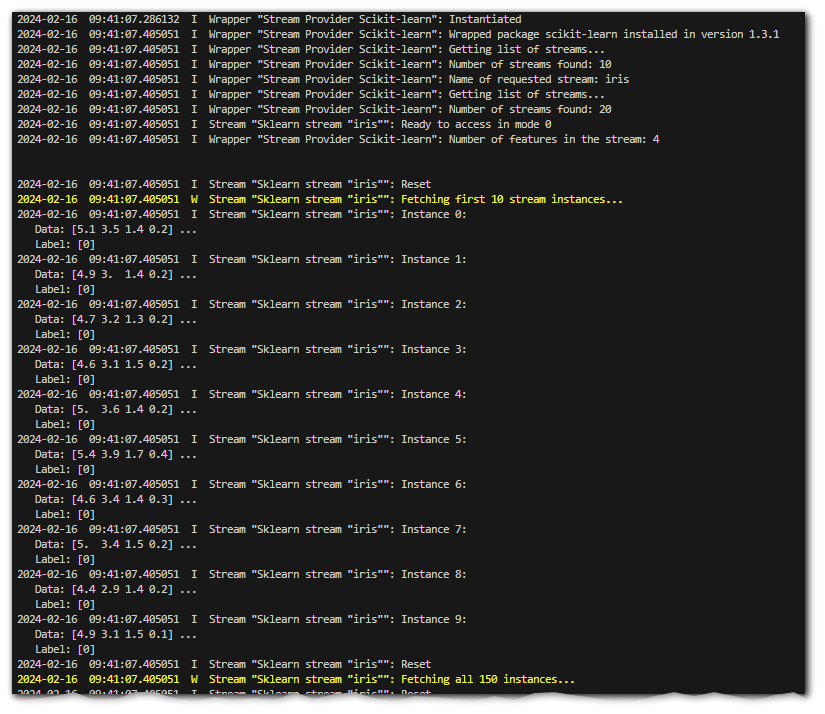
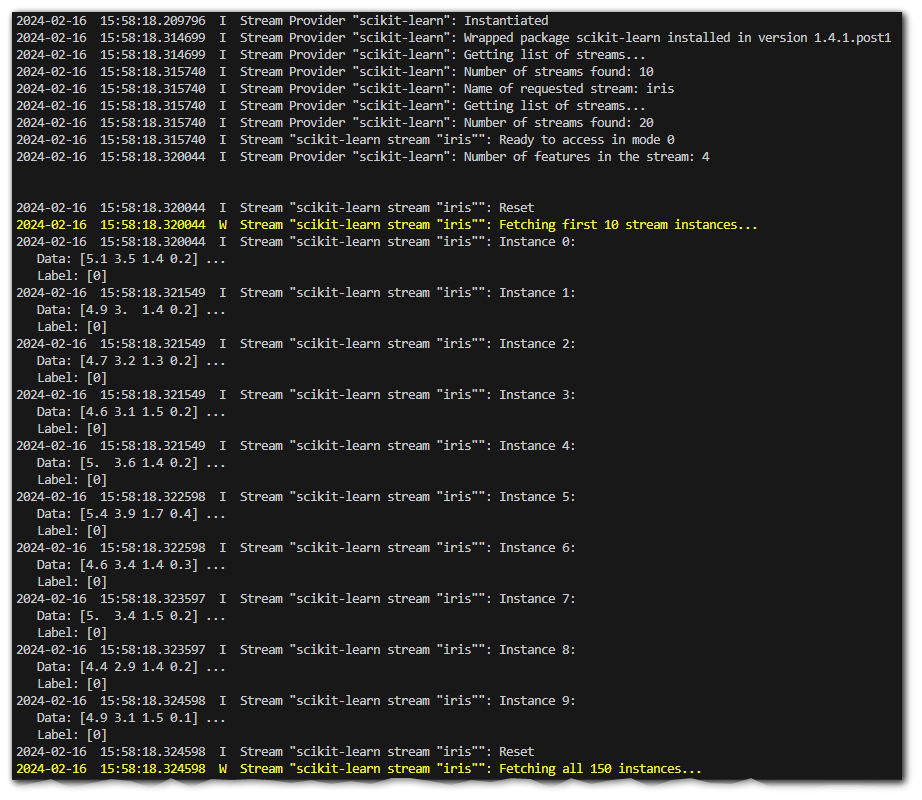
Initial setup #1

Changed region(s): [[0.0, 0.0, 1.0, 0.986]]

diff --git a/src/mlpro_int_sklearn/wrappers/streams.py b/src/mlpro_int_sklearn/wrappers/streams.py
@@ -30,10 +30,10 @@ https://scikit-learn.org
 """
 
 
-from mlpro_int_sklearn.wrappers import WrapperScikitlearn
+from mlpro_int_sklearn.wrappers import WrapperSklearn
 from mlpro.bf.streams import *
 from mlpro.bf.math import *
-from sklearn import datasets
+from sklearn import datasets as sklearn_datasets
 import numpy
 
 
@@ -41,12 +41,12 @@ import numpy
 
 ## -------------------------------------------------------------------------------------------------
 ## -------------------------------------------------------------------------------------------------
-class WrStreamProviderSklearn (WrapperScikitlearn, StreamProvider):
+class WrStreamProviderSklearn (WrapperSklearn, StreamProvider):
     """
     Wrapper class for Sklearn as StreamProvider.
     """
 
-    C_NAME              = 'Stream Provider Scikit-learn'
+    C_NAME              = 'scikit-learn'
 
     _load_utils = [
         "fetch_20newsgroups()",
@@ -78,15 +78,16 @@ class WrStreamProviderSklearn (WrapperScikitlearn, StreamProvider):
         "wine",
     ]
 
-
 ## -------------------------------------------------------------------------------------------------
     def __init__(self, p_logging = Log.C_LOG_ALL):
 
-        WrapperScikitlearn.__init__(self, p_logging=p_logging)
+        self.C_TYPE       = StreamProvider.C_TYPE
+
+        WrapperSklearn.__init__(self, p_logging=p_logging)
         StreamProvider.__init__(self, p_logging=p_logging)
 
         self._stream_list = []
-        self._stream_ids = self._datasets
+        self._stream_ids  = self._datasets
 
 
 ## -------------------------------------------------------------------------------------------------
@@ -186,7 +187,7 @@ class WrStreamSklearn (Stream):
         Further stream specific parameters.
     """
 
-    C_NAME              = 'Sklearn stream'
+    C_NAME              = 'scikit-learn stream'
     C_SCIREF_TYPE       = ScientificObject.C_SCIREF_TYPE_ONLINE
 
 ## -------------------------------------------------------------------------------------------------
@@ -278,11 +279,11 @@ class WrStreamSklearn (Stream):
         Custom download class that assigns the related sklearn dataset and its functionalities to _dataset attribute
         """
 
-        self._dataset = eval("sklearn.datasets."
+        self._dataset = eval("sklearn_datasets."
                          + WrStreamProviderSklearn._load_utils[WrStreamProviderSklearn._datasets.index(self.C_ID)])
 
         self._num_instances = len(self._dataset.data)
-        self.C_SCIREF_ABSTRACT = eval("len(sklearn.datasets."
+        self.C_SCIREF_ABSTRACT = eval("len(sklearn_datasets."
                                  + WrStreamProviderSklearn._load_utils[WrStreamProviderSklearn._datasets.index(self.C_ID)]
                                  + ".DESCR)")
 

diff --git a/test/howtos/bf/howto_bf_streams_001_accessing_data_from_scikitlearn.py b/test/howtos/bf/howto_bf_streams_001_accessing_data_from_scikitlearn.py
@@ -18,14 +18,14 @@
 """
 Ver. 1.2.0 (2024-01-30)
 
-This module demonstrates the use of Scikit-learn datasets as streams in MLPro. To this regard, MLPro
+This module demonstrates the use of scikit-learn datasets as streams in MLPro. To this regard, MLPro
 provides wrapper classes to standardize stream access in own ML applications.
 
 You will learn:
 
-1) How to access datasets of the Scikit-learn project.
+1) How to access datasets of the scikit-learn project.
 
-2) How to iterate the instances of an Scikit-learn stream.
+2) How to iterate the instances of an scikit-learn stream.
 
 3) How to access feature and label data of a data stream.
 

diff --git a/src/setup.py b/src/setup.py
@@ -3,7 +3,7 @@ from setuptools import setup
 
 setup(name='mlpro-int-scikit-learn',
 version='0.1.0',
-description='MLPro: Integration Scikit-learn',
+description='MLPro: Integration scikit-learn',
 author='MLPro Team',
 author_mail='mlpro@listen.fh-swf.de',
 license='Apache Software License (http://www.apache.org/licenses/LICENSE-2.0)',
@@ -13,7 +13,7 @@ packages=['mlpro_int_sklearn'],
 extras_require={
     "full": [
         "mlpro[full]>=1.3.1",
-        "scikit-learn"
+        "scikit-learn>=1.4.1"
     ],
 },
 

diff --git a/src/mlpro_int_sklearn/wrappers/basics.py b/src/mlpro_int_sklearn/wrappers/basics.py
@@ -26,7 +26,7 @@ from mlpro.wrappers.models import Wrapper
 
 ## -------------------------------------------------------------------------------------------------
 ## -------------------------------------------------------------------------------------------------
-class WrapperScikitlearn (Wrapper):
+class WrapperSklearn (Wrapper):
     """
     Root class for all scikit-learn wrapper classes.
     """

diff --git a/doc/rtd/index.rst b/doc/rtd/index.rst
@@ -3,21 +3,21 @@
    You can adapt this file completely to your liking, but it should at least
    contain the root `toctree` directive.
 
-MLPro-Int-Scikit-learn - Integration of Scikit-learn into MLPro
+MLPro-Int-scikit-learn - Integration of scikit-learn into MLPro
 ===============================================================
 
-Welcome to MLPro-Int-Scikit-learn, an extension to MLPro to integrate the scikit-learn package.
+Welcome to MLPro-Int-scikit-learn, an extension to MLPro to integrate the scikit-learn package.
 MLPro is a middleware framework for standardized machine learning in Python. It is 
 developed by the South Westphalia University of Applied Sciences, Germany, and provides 
 standards, templates, and processes for hybrid machine learning applications. Scikit-learn, in turn, 
 provides numerous state-of-the-art algorithms for a vast amount of machine learning topics.
 
-MLPro-Int-Scikit-learn provides wrapper classes that enable the use of scikit-learn algorithms and 
+MLPro-Int-scikit-learn provides wrapper classes that enable the use of scikit-learn algorithms and 
 data streams in your MLPro applications. The use of these wrappers is illustrated in various example programs.
 
 
 **Preparation**
-   Before running the examples, please install the latest versions of MLPro, scikit-learn, and MLPro-Int-Scikit-learn as follows:
+   Before running the examples, please install the latest versions of MLPro, scikit-learn, and MLPro-Int-scikit-learn as follows:
 
    .. code-block:: bash
 
@@ -29,7 +29,7 @@ data streams in your MLPro applications. The use of these wrappers is illustrate
    - `MLPro-OA - Sub-framework for online machine learning <https://mlpro.readthedocs.io/en/latest/content/03_machine_learning/mlpro_oa/main.html>`_
    - `scikit-learn - Machine Learning in Python <https://scikit-learn.org>`_      
    - `Further MLPro extensions <https://mlpro.readthedocs.io/en/latest/content/04_extensions/main.html>`_
-   - `MLPro-Int-Scikit-learn on GitHub <https://github.com/fhswf/MLPro-Int-Scikit-learn>`_
+   - `MLPro-Int-scikit-learn on GitHub <https://github.com/fhswf/MLPro-Int-Scikit-learn>`_
 
 
 .. toctree::
@@ -50,7 +50,7 @@ data streams in your MLPro applications. The use of these wrappers is illustrate
 
 .. toctree::
    :maxdepth: 2
-   :caption: About MLPro-Int-Scikit-learn
+   :caption: About MLPro-Int-scikit-learn
    :glob:
 
    content/03_about/*

diff --git a/README.md b/README.md
@@ -11,12 +11,12 @@
 
 <img src="https://github.com/fhswf/MLPro-Int-Scikit-learn/blob/main/doc/logo/original/logo.png?raw=True" align="right" width="40%"/>
 
-# MLPro-Int-Scikit-learn - Integration of Scikit-learn into MLPro
-Welcome to MLPro-Int-Scikit-learn, an extension to MLPro to integrate the scikit-learn package. MLPro is a middleware framework for standardized machine learning in Python. It is developed by the South Westphalia University of Applied Sciences, Germany, and provides standards, templates, and processes for hybrid machine learning applications. Scikit-learn, in turn, provides numerous state-of-the-art algorithms for a vast amount of machine learning topics.
+# MLPro-Int-scikit-learn - Integration of scikit-learn into MLPro
+Welcome to MLPro-Int-scikit-learn, an extension to MLPro to integrate the scikit-learn package. MLPro is a middleware framework for standardized machine learning in Python. It is developed by the South Westphalia University of Applied Sciences, Germany, and provides standards, templates, and processes for hybrid machine learning applications. Scikit-learn, in turn, provides numerous state-of-the-art algorithms for a vast amount of machine learning topics.
 
-MLPro-Int-Scikit-learn provides wrapper classes that enable the use of scikit-learn algorithms and data streams in your MLPro applications. The use of these wrappers is illustrated in various example programs.
+MLPro-Int-scikit-learn provides wrapper classes that enable the use of scikit-learn algorithms and data streams in your MLPro applications. The use of these wrappers is illustrated in various example programs.
 
 ### Learn more
 [MLPro - Machine Learning Professional](https://mlpro.readthedocs.io)   
-[MLPro-Int-Scikit-learn - Integration of Scikit-learn into MLPro](https://mlpro-int-scikit-learn.readthedocs.io)   
+[MLPro-Int-scikit-learn - Integration of scikit-learn into MLPro](https://mlpro-int-scikit-learn.readthedocs.io)   
 [scikit-learn - Machine Learning in Python](https://scikit-learn.org)   

diff --git a/doc/rtd/content/03_about/01_versions.rst b/doc/rtd/content/03_about/01_versions.rst
@@ -2,9 +2,9 @@ Release Notes
 =============
 
 Release Notes on GitHub:
-    - `Latest release <https://github.com/fhswf/MLPro-Int-Scikit-learn/releases/latest>`_
-    - `Release history <https://github.com/fhswf/MLPro-Int-Scikit-learn/releases>`_
+    - `Latest release <https://github.com/fhswf/MLPro-Int-scikit-learn/releases/latest>`_
+    - `Release history <https://github.com/fhswf/MLPro-Int-scikit-learn/releases>`_
 
 
 Upcoming:
-    - `Upcoming release <https://github.com/fhswf/MLPro-Int-Scikit-learn/issues?q=is%3Aissue+label%3A%22next+release%22>`_    
+    - `Upcoming release <https://github.com/fhswf/MLPro-Int-scikit-learn/issues?q=is%3Aissue+label%3A%22next+release%22>`_    

diff --git a/doc/rtd/content/02_api/01_streams.rst b/doc/rtd/content/02_api/01_streams.rst
@@ -2,7 +2,7 @@
 Wrappers for scikit-learn Data Streams
 ======================================
 
-.. image:: images/MLPro-Int-Scikit-learn-Streams.drawio.png
+.. image:: images/MLPro-Int-scikit-learn-Streams.drawio.png
    :scale: 50%
 
 

diff --git a/doc/rtd/content/02_api/00_basic.rst b/doc/rtd/content/02_api/00_basic.rst
@@ -2,7 +2,7 @@
 Wrapper Root Class
 ==================
 
-.. image:: images/MLPro-Int-Scikit-learn.drawio.png
+.. image:: images/MLPro-Int-scikit-learn.drawio.png
    :scale: 50%
 
 
